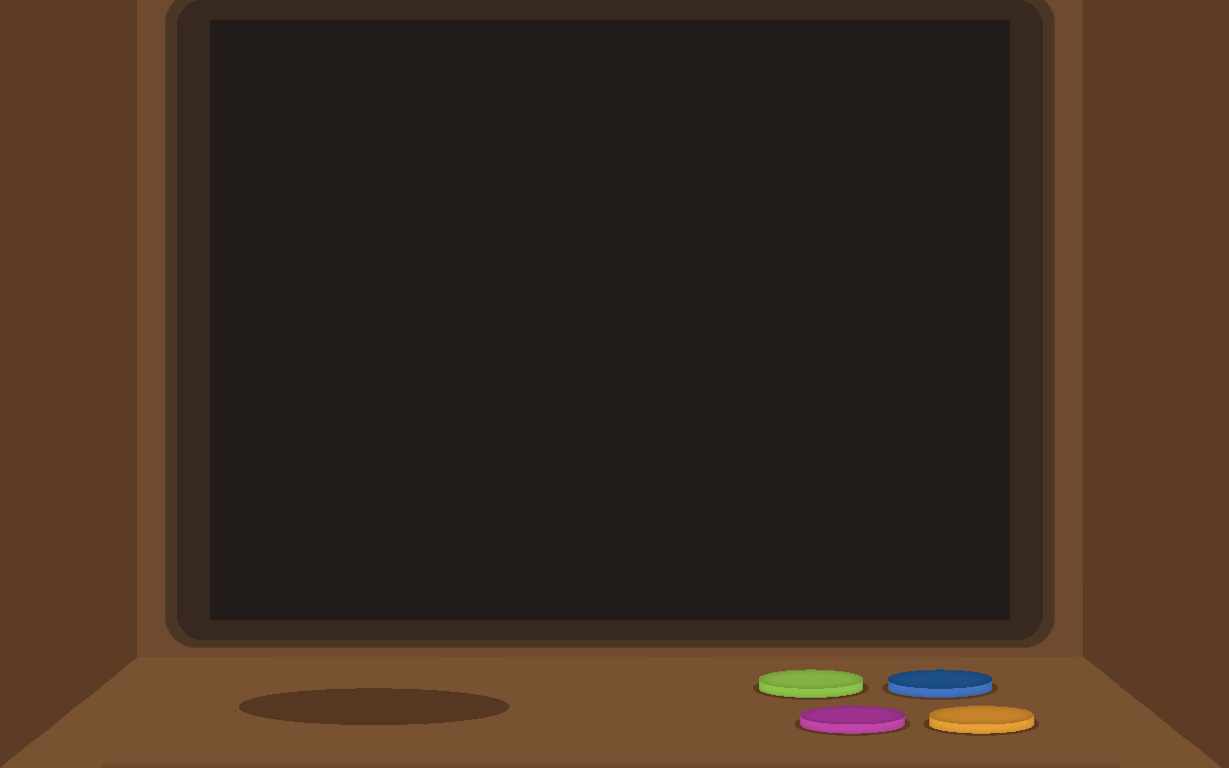
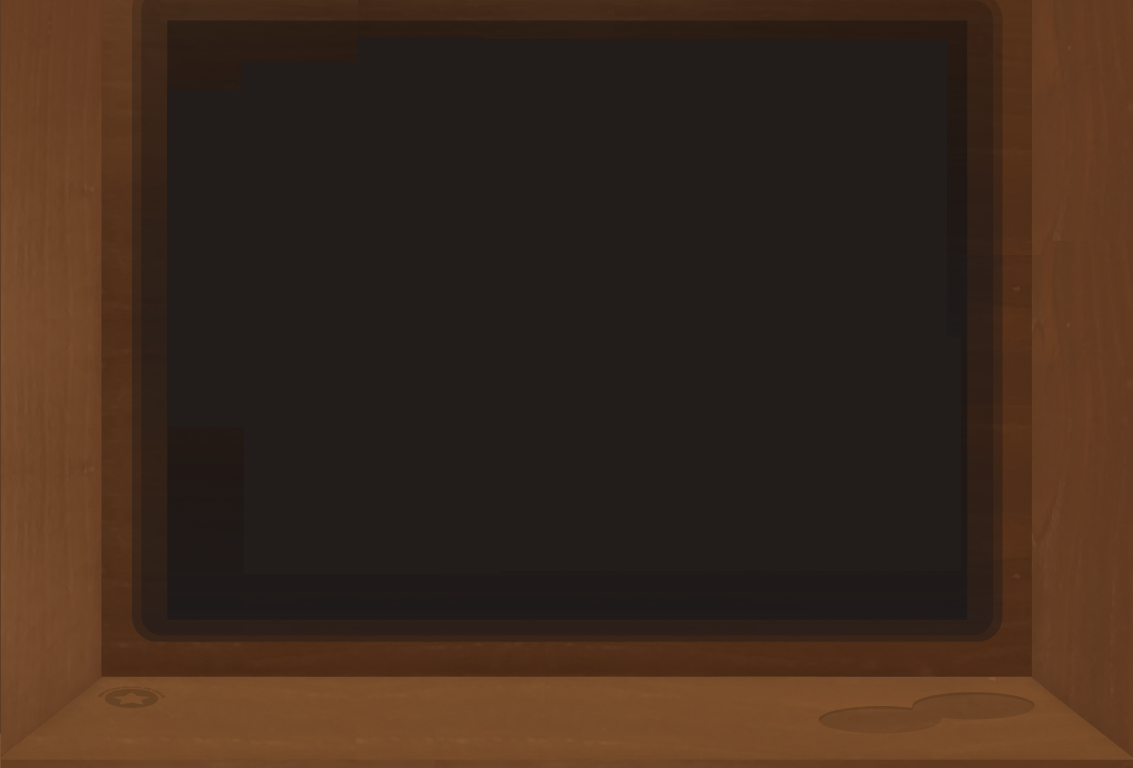
New GFX

diff --git a/style.css b/style.css
@@ -17,17 +17,17 @@ body, html {
   overflow: hidden;
 }
 .full-screen {
-  width: 1229px;
+  width: 1133px;
   height: 768px;
 
   position: absolute;
 }
 #shop {
-  background: url('./img/machine2.png');
+  background: url('./img/shelves.png');
 
   margin: 0 auto;
 
-  left: 1229px;
+  left: 1133px;
 }
 #machine {
   background: url('./img/machine2.png');
